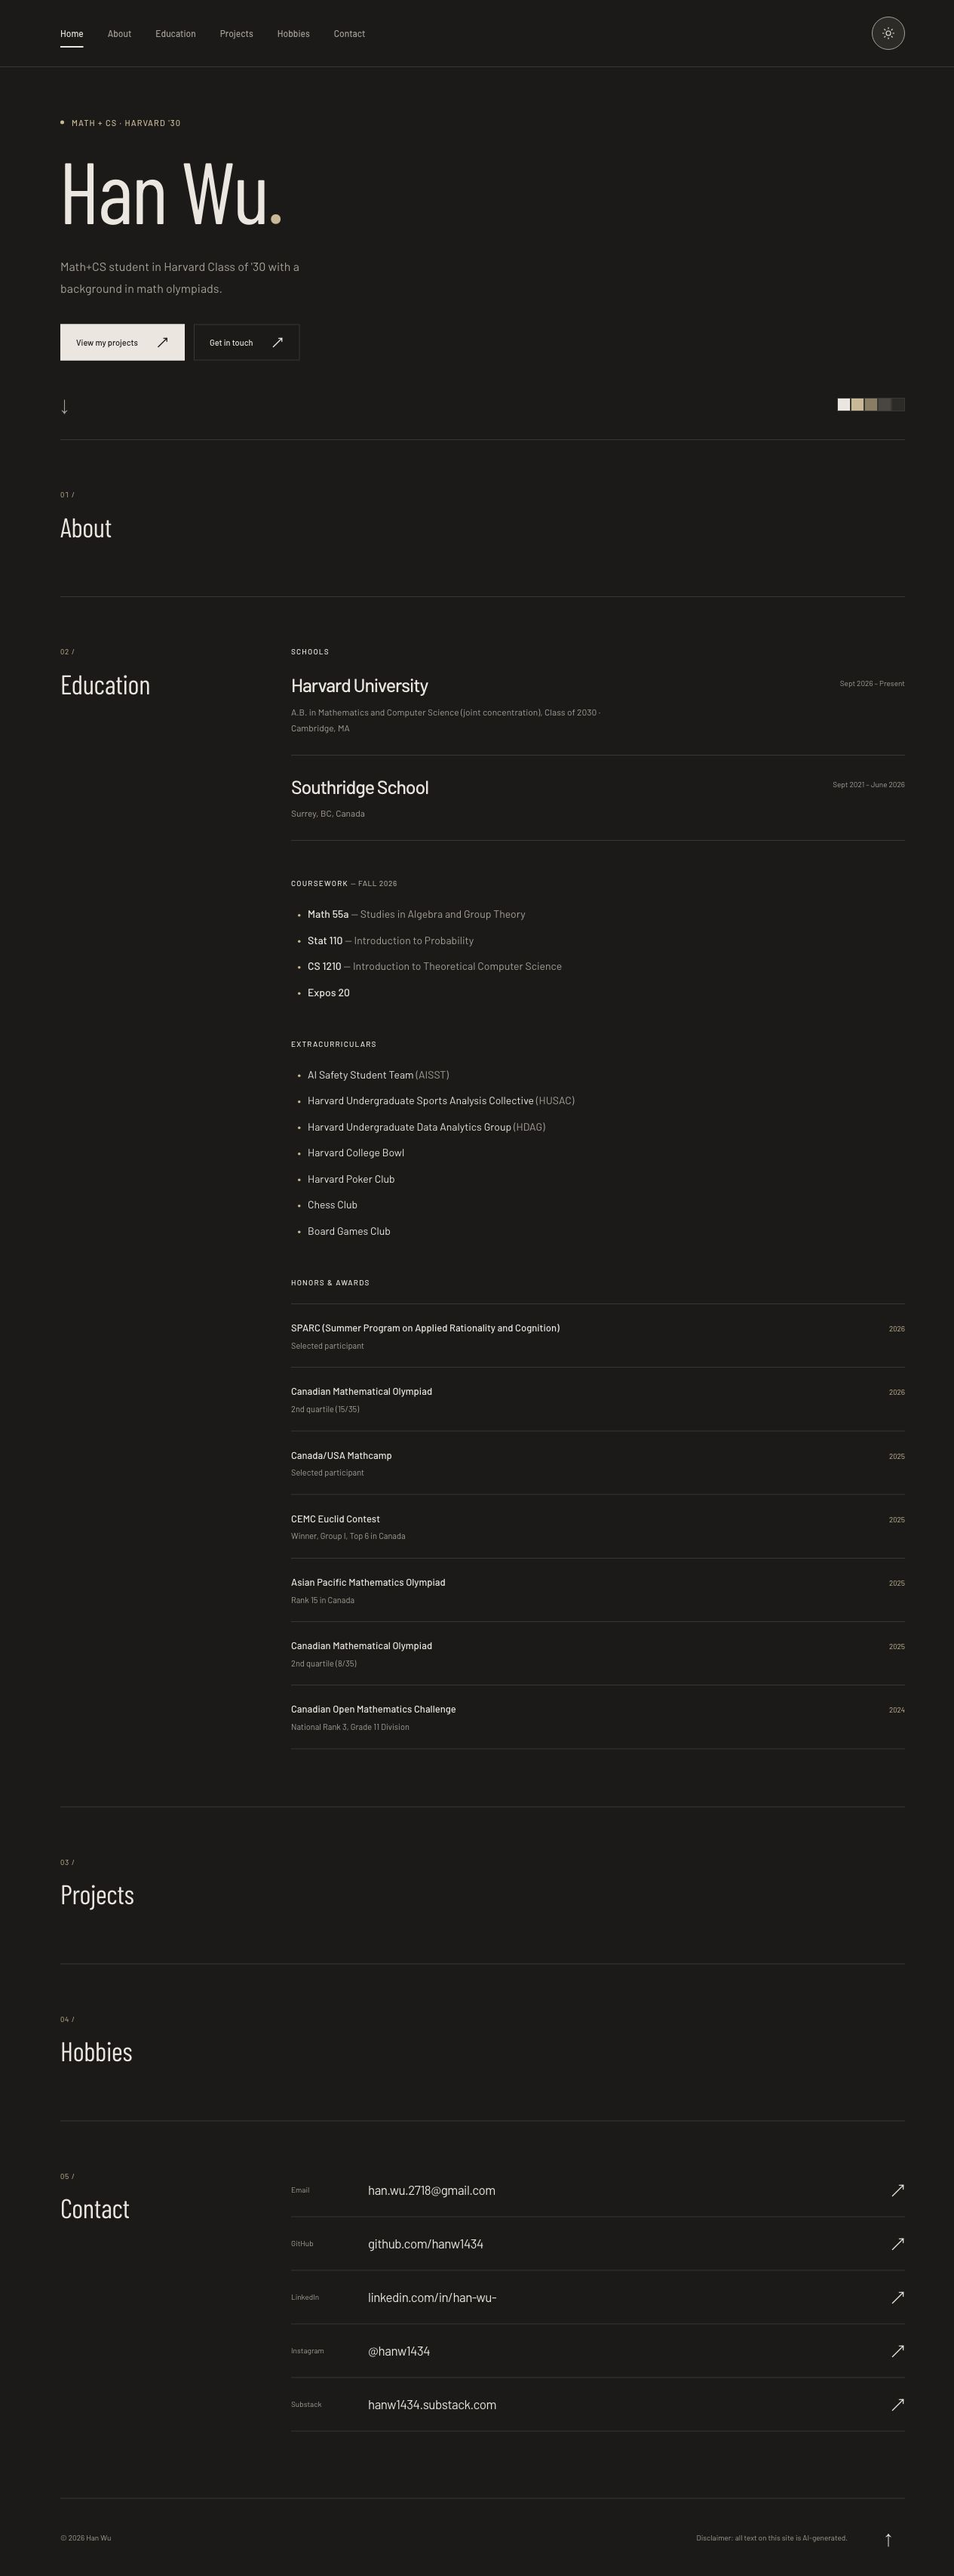
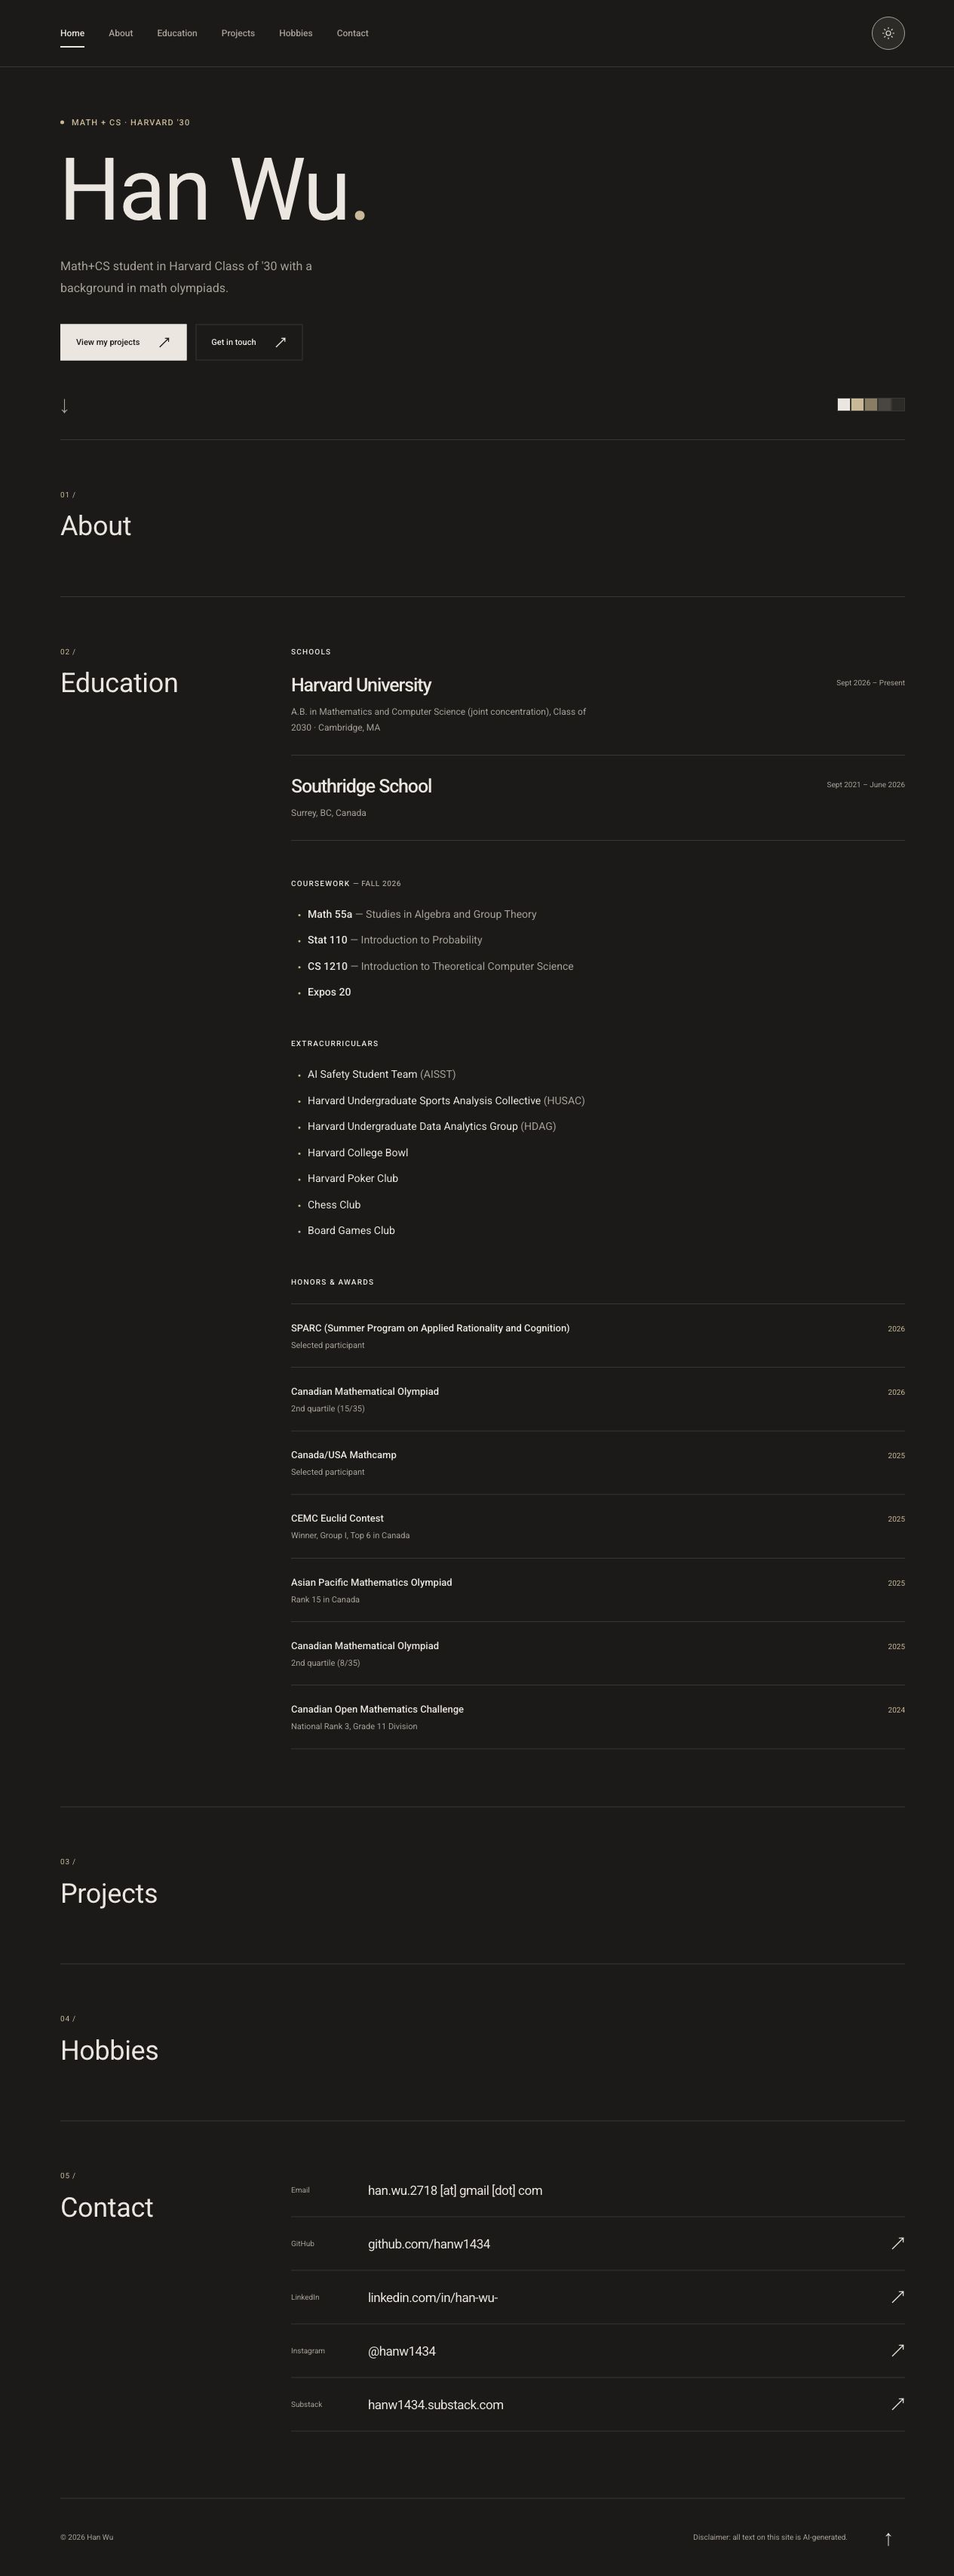
Use Roboto throughout and display email without a direct mail link

diff --git a/css/style.css b/css/style.css
@@ -1,4 +1,4 @@
-/* Warm oatmeal neutrals, with taller Barlow typography. */
+/* Warm oatmeal neutrals, with restrained Roboto typography. */
 :root {
   --bg: #eae2d6; --surface: #f1eade; --surface-2: #ddd2c2; --border: #cabda9;
   --text: #2a2825; --text-muted: #60594f; --accent: #6a553c; --accent-soft: #c4b59c;
@@ -13,7 +13,7 @@ html[data-theme="dark"] {
 }
 * { box-sizing: border-box; }
 html { scroll-behavior: smooth; scroll-padding-top: calc(var(--nav-height) + 24px); }
-body { margin: 0; background: var(--bg); color: var(--text); font-family: "Barlow", "Helvetica Neue", Arial, sans-serif; font-size: 15px; line-height: 1.65; -webkit-font-smoothing: antialiased; }
+body { margin: 0; background: var(--bg); color: var(--text); font-family: "Roboto", "Helvetica Neue", Arial, sans-serif; font-size: 15px; line-height: 1.65; -webkit-font-smoothing: antialiased; }
 ::selection { background: var(--text); color: var(--bg); }
 a { color: inherit; text-decoration: none; }
 button { font: inherit; cursor: pointer; }
@@ -40,7 +40,7 @@ html[data-theme="dark"] .moon-icon { display: none; }
 .hero { padding-top: 64px; padding-bottom: 28px; }
 .eyebrow { display: flex; align-items: center; gap: 10px; color: var(--accent); font-size: 11px; font-weight: 500; letter-spacing: .1em; text-transform: uppercase; }
 .status-dot { width: 5px; height: 5px; background: var(--accent); border-radius: 50%; }
-h1 { margin: 20px 0 26px -2px; font-family: "Barlow Condensed", "Arial Narrow", sans-serif; font-size: clamp(80px, 9vw, 116px); line-height: 1.05; font-weight: 400; letter-spacing: -.025em; white-space: nowrap; }
+h1 { margin: 20px 0 26px -2px; font-family: "Roboto", "Helvetica Neue", Arial, sans-serif; font-size: clamp(80px, 9vw, 116px); line-height: 1.05; font-weight: 400; letter-spacing: -.025em; white-space: nowrap; }
 .name-period { color: var(--accent); }
 .tagline { max-width: 350px; font-size: 16px; color: var(--text-muted); line-height: 1.8; }
 .cta-row { display: flex; align-items: center; gap: 12px; margin-top: 34px; }
@@ -57,7 +57,7 @@ h1 { margin: 20px 0 26px -2px; font-family: "Barlow Condensed", "Arial Narrow", 
 .section { display: grid; grid-template-columns: 250px minmax(0, 1fr); gap: 56px; border-top: 1px solid var(--border); padding: 64px 0; }
 .section-head { align-self: start; display: flex; flex-direction: column; align-items: flex-start; gap: 12px; }
 .section-number { color: var(--accent); font-size: 10px; letter-spacing: .08em; font-variant-numeric: tabular-nums; }
-h2 { font-family: "Barlow Condensed", "Arial Narrow", sans-serif; font-size: 36px; font-weight: 400; letter-spacing: -.01em; line-height: 1.2; }
+h2 { font-family: "Roboto", "Helvetica Neue", Arial, sans-serif; font-size: 36px; font-weight: 400; letter-spacing: -.01em; line-height: 1.2; }
 .empty-section { min-height: 208px; }
 .section-body { min-width: 0; }
 .prose p { max-width: 640px; margin-bottom: 20px; color: var(--text-muted); font-size: 16px; }
@@ -92,7 +92,7 @@ h2 { font-family: "Barlow Condensed", "Arial Narrow", sans-serif; font-size: 36p
 .contact-section { padding-bottom: 88px; }
 .contact-list { margin-top: -8px; }
 .contact-list li { border-bottom: 1px solid var(--border); }
-.contact-list a { display: grid; grid-template-columns: 90px minmax(0, 1fr) 20px; align-items: center; gap: 12px; min-height: 70px; padding: 12px 0; transition: background .2s; }
+.contact-list a, .contact-row { display: grid; grid-template-columns: 90px minmax(0, 1fr) 20px; align-items: center; gap: 12px; min-height: 70px; padding: 12px 0; transition: background .2s; }
 .contact-label { font-size: 10px; color: var(--text-muted); }
 .contact-value { font-size: 17px; letter-spacing: -.03em; overflow-wrap: anywhere; }
 .contact-arrow { font-size: 21px; transition: transform .2s; }
@@ -121,7 +121,7 @@ h2 { font-family: "Barlow Condensed", "Arial Narrow", sans-serif; font-size: 36p
   .education-section { padding-bottom: 48px; }.school h4 { font-size: 25px; }.school p { font-size: 12px; }.school .date { margin-top: 5px; font-size: 10px; }
   .education-group + .education-group { margin-top: 36px; }.course-list li, .club-list li { font-size: 13px; }
   .award-list h4 { font-size: 12px; }.award-list p { font-size: 11px; }.award-list li { gap: 16px; }.project-grid { grid-template-columns: 1fr; }
-  .contact-section { padding-bottom: 48px; }.contact-list a { grid-template-columns: minmax(0, 1fr) 20px; gap: 2px 12px; padding: 15px 0; }
+  .contact-section { padding-bottom: 48px; }.contact-list a, .contact-row { grid-template-columns: minmax(0, 1fr) 20px; gap: 2px 12px; padding: 15px 0; }
   .contact-label { grid-column: 1; font-size: 9px; }.contact-value { grid-column: 1; font-size: 16px; }.contact-arrow { grid-column: 2; grid-row: 1 / 3; }
   .site-footer { position: relative; flex-direction: column; align-items: flex-start; justify-content: center; gap: 6px; padding: 24px 44px 24px 0; min-height: 100px; font-size: 9px; }
   .back-to-top { position: absolute; top: 28px; right: 0; }

diff --git a/index.html b/index.html
@@ -9,7 +9,7 @@
   <link rel="icon" href="favicon.svg" type="image/svg+xml">
   <link rel="preconnect" href="https://fonts.googleapis.com">
   <link rel="preconnect" href="https://fonts.gstatic.com" crossorigin>
-  <link href="https://fonts.googleapis.com/css2?family=Barlow:wght@400;500;600&family=Barlow+Condensed:wght@400;500;600&display=swap" rel="stylesheet">
+  <link href="https://fonts.googleapis.com/css2?family=Roboto:wght@400;500;600&display=swap" rel="stylesheet">
   <script>
     (() => {
       let theme;
@@ -102,7 +102,7 @@
       <header class="section-head"><span class="section-number" aria-hidden="true">05 /</span><h2 id="contact-title">Contact</h2></header>
       <div class="section-body">
         <ul class="contact-list">
-          <li><a href="mailto:han.wu.2718@gmail.com"><span class="contact-label">Email</span><span class="contact-value">han.wu.2718@gmail.com</span><span class="contact-arrow" aria-hidden="true">↗</span></a></li>
+          <li><div class="contact-row"><span class="contact-label">Email</span><span class="contact-value">han.wu.2718 [at] gmail [dot] com</span></div></li>
           <li><a href="https://github.com/hanw1434"><span class="contact-label">GitHub</span><span class="contact-value">github.com/hanw1434</span><span class="contact-arrow" aria-hidden="true">↗</span></a></li>
           <li><a href="https://www.linkedin.com/in/han-wu-/"><span class="contact-label">LinkedIn</span><span class="contact-value">linkedin.com/in/han-wu-</span><span class="contact-arrow" aria-hidden="true">↗</span></a></li>
           <li><a href="https://www.instagram.com/hanw1434"><span class="contact-label">Instagram</span><span class="contact-value">@hanw1434</span><span class="contact-arrow" aria-hidden="true">↗</span></a></li>

diff --git a/README.md b/README.md
@@ -1,6 +1,6 @@
 # Han Wu — personal website
 
-A single-page portfolio with warm oatmeal colors and restrained, light-weight Barlow Condensed headlines. The hero focuses on typography, and the header contains only navigation and the theme control. About, Projects, and Hobbies intentionally contain only their headings until real content is added.
+A single-page portfolio with warm oatmeal colors and restrained, light-weight Roboto headlines. The hero focuses on typography, and the header contains only navigation and the theme control. About, Projects, and Hobbies intentionally contain only their headings until real content is added.
 
 ## Structure
 
@@ -38,6 +38,8 @@ Coursework and extracurriculars use simple lists. Preserve the full organization
 
 For schools and awards, follow the existing semantic article/list markup. Preserve award ordering from newest to oldest and retain a visible year on each entry.
 
+The email is displayed as `han.wu.2718 [at] gmail [dot] com` as plain text, without a `mailto:` link.
+
 ## Accessibility and performance
 
-Semantic landmarks, a skip link, visible keyboard focus, named controls, and an accessible active-location indicator are included. Navigation remains fully visible at phone widths. Reduced-motion preferences disable smooth scrolling and transitions. Text uses only `--text`, `--text-muted`, or `--accent` on contrast-checked backgrounds; swatches and `--accent-soft` are decorative only. Barlow and Barlow Condensed load from Google Fonts with `display=swap` and a system-font fallback.
+Semantic landmarks, a skip link, visible keyboard focus, named controls, and an accessible active-location indicator are included. Navigation remains fully visible at phone widths. Reduced-motion preferences disable smooth scrolling and transitions. Text uses only `--text`, `--text-muted`, or `--accent` on contrast-checked backgrounds; swatches and `--accent-soft` are decorative only. Roboto loads from Google Fonts with `display=swap` and a system-font fallback.

diff --git a/docs/verification.md b/docs/verification.md
@@ -37,7 +37,7 @@ Rendered text/background pairs and reusable surface styles were checked using WC
 
 After the oatmeal palette revision, primary-button hover and future project links use the deeper accent. All rendered text pairs and button hover states meet 4.5:1. The hero illustration and corner logo are removed. Navigation and no-overflow checks were repeated after changing the fonts and phone header.
 
-The latest size revision reduces the main heading to 116px maximum on desktop and 64–96px on phones, uses regular weight (400), and tightens hero spacing. Desktop and phone captures were refreshed in both themes; navigation and overflow were rechecked.
+The latest size revision reduces the main heading to 116px maximum on desktop and 64–96px on phones, uses regular weight (400), and tightens hero spacing. All site typography now uses Roboto; desktop and phone wrapping was checked again after the font switch. Desktop and phone captures were refreshed in both themes; navigation and overflow were rechecked.
 
 ## Screenshots
 
@@ -46,3 +46,7 @@ Viewport and full-page captures for desktop light, desktop dark, phone light, an
 ## Club name sources
 
 The three abbreviated entries now include their full names, retaining the supplied acronyms. Names were checked against [AI Safety Student Team](https://aisst.ai/mission), [Harvard Undergraduate Sports Analysis Collective](https://harvardsportsanalysis.org/), and [Harvard Undergraduate Data Analytics Group](https://harvardanalytics.org/). Other club names are unchanged. Coursework and clubs use semantic bulleted lists, checked for wrapping on phones.
+
+## Font and contact revision
+
+All typography uses Roboto, retaining the smaller, regular-weight headings. The email is written with `[at]` and `[dot]` as plain selectable text; no mail link or literal email address is embedded in the page HTML. Desktop and phone wrapping and section navigation were checked after this revision.
